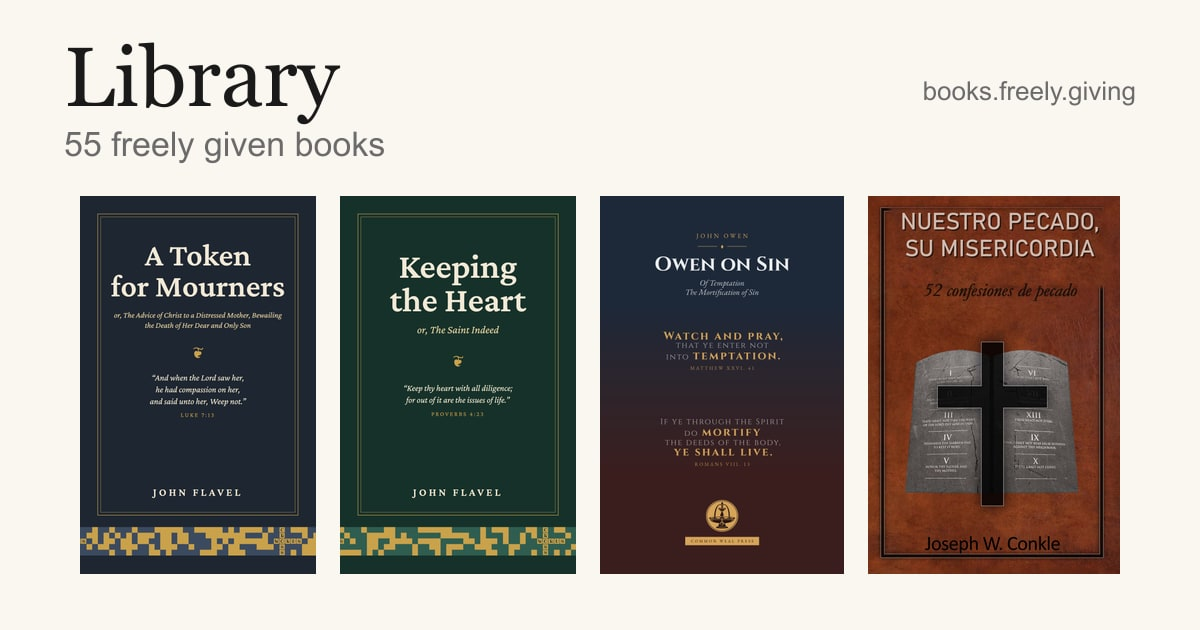
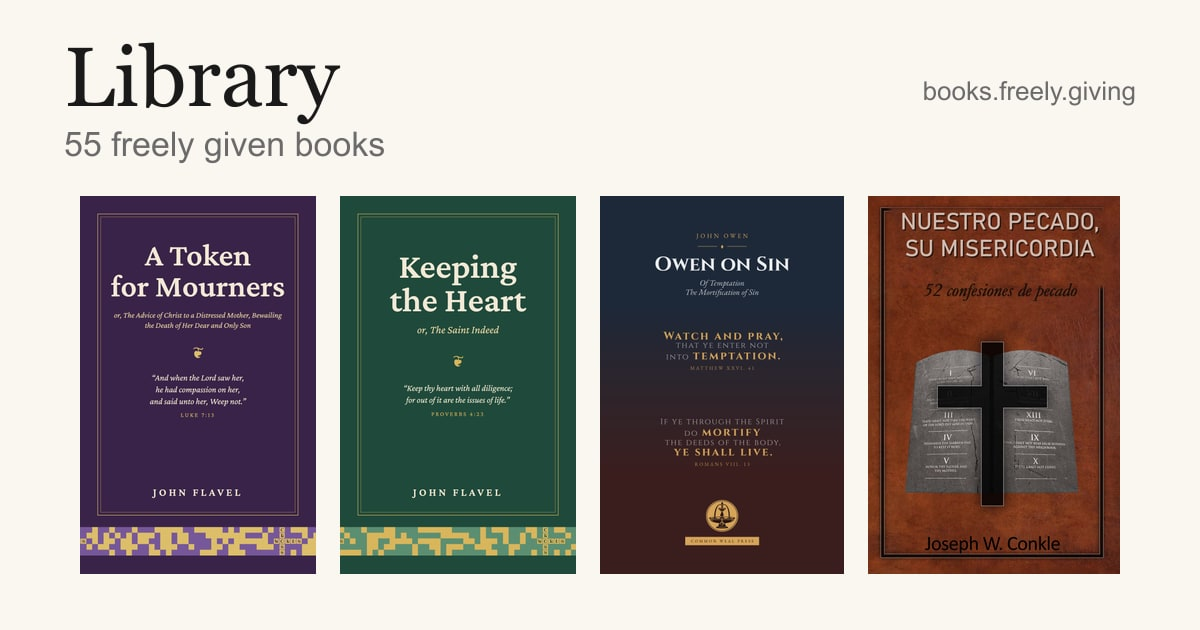
Distinct cover colours for the new CROSSWORDS books: Keeping the Heart evergreen, A Token for Mourners violet, Morning and Evening rust

Changed region(s): [[0.0617, 0.3016, 0.4933, 0.9349], [0.3392, 0.6032, 0.4317, 0.6635]]

diff --git a/data/src/books/a-token-for-mourners/content/a-token-for-mourners.html b/data/src/books/a-token-for-mourners/content/a-token-for-mourners.html
@@ -18,7 +18,7 @@
   --ink: #1d1b18;
   --muted: #6b645a;
   --rule: #cfc7ba;
-  --accent: #1E2632;
+  --accent: #3A2348;
   --serif: "Crimson Pro", "Crimson Pro Ext", Georgia, "Times New Roman", serif;
 }
 

diff --git a/data/src/books/keeping-the-heart/content/keeping-the-heart.html b/data/src/books/keeping-the-heart/content/keeping-the-heart.html
@@ -18,7 +18,7 @@
   --ink: #1d1b18;
   --muted: #6b645a;
   --rule: #cfc7ba;
-  --accent: #16302A;
+  --accent: #1F4A3B;
   --serif: "Crimson Pro", "Crimson Pro Ext", Georgia, "Times New Roman", serif;
 }
 
